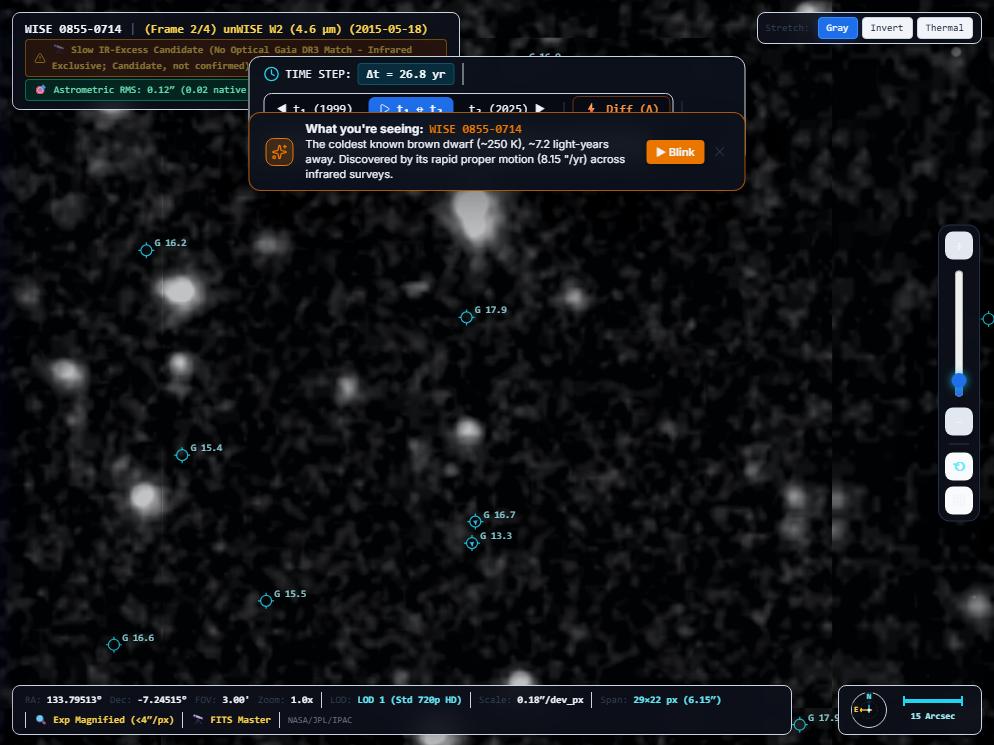
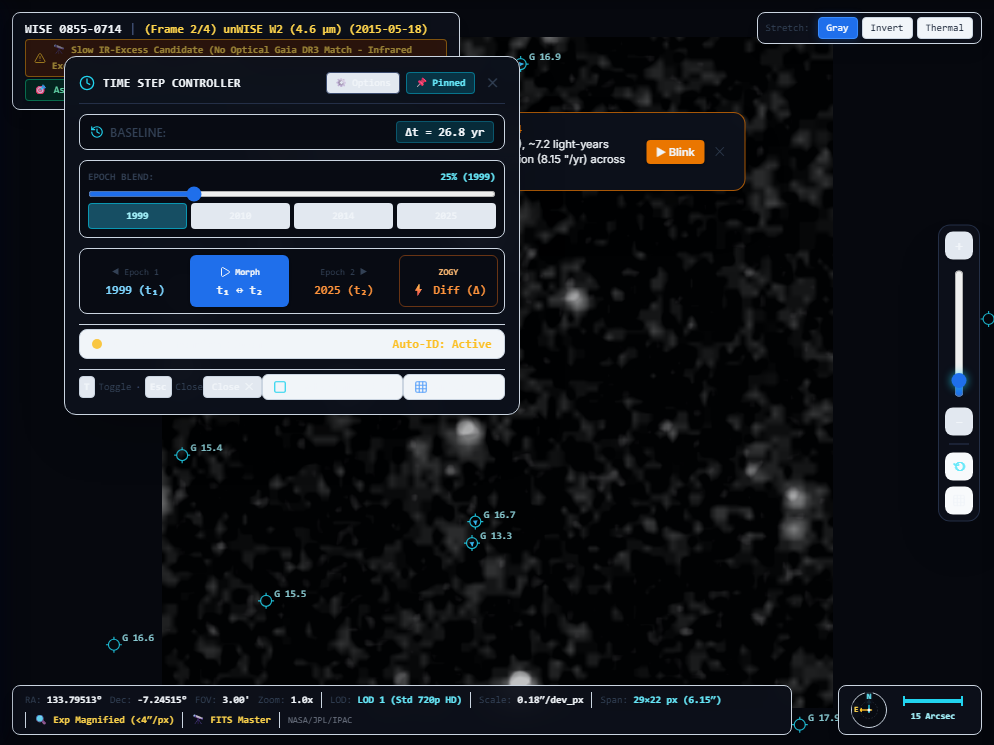
docs(sync): update coolodu memory and shared project state with remote sync & viewport remediation

diff --git a/07 - Team Memory & Sync/coolodu_memory.md b/07 - Team Memory & Sync/coolodu_memory.md
@@ -3,11 +3,17 @@
 > **Branch:** `coolodu/web-frontend`
 
 ## Personal Status:
-- **Current Task:** Completed and verified full functionality for all tools in the Time Step Controller popup toolbar (`#viewportTimeStepHUD`) on `coolodu/web-frontend`. Implemented interactive Edit Options drawer (`#timeStepEditDrawer`) with Pinning Mode toggles (`#optPinAlways` / `#optUnpinFlyout`), blink cycle speed controls, position reset (`#btnResetTimeStepPos`), draggable toolbar header (`#hudTimeStepHeader`), multi-epoch scrubber slider (`#hudEpochBlendSlider`), discrete frame jump chips (`.hud-epoch-chip`), and multiple intuitive close options (`#btnCloseTimeStepHUD`, `#btnTimeStepFooterClose`, `#btnDrawerCloseTimeStep`, `T` toggle, and `Esc` dismiss). All 21 UI contract tests passing 100% green.
-- **Next Task:** Final deployment review, user handoff, and monitoring GitHub Issues board.
+- **Current Task:** Synced all remote branches (`main`, `coolodu/web-frontend`, `darkodu/astro-backend`, `iceodu/image-math-ai`, `astrodu/ui-story-pitch`). Resolved merge conflicts between upstream Time Step popup enhancements and viewport Step 2 overhauls. Fixed the solid white cutout fallback bug in `cutout_engine.py` and eliminated Cartesian adjacent-tile canvas seams. Integrated Level 2 exposure footprint boundary overlays (`EXP_ID`, `Detector`, `MJD`) and equatorial coordinate grid lines. Verified 100% green across all test suites (`test_ui_contract.py`: 22 passed, `test_viewport_overhaul.py`: 8 passed, `test_continuous_viewport_e2e.py`: 2 passed, `test_golden_suite.py`: 22 passed).
+- **Next Task:** Proceed with Step 3 / Step 4 (SPHEREx DR1 HiPS channel selector and seamless Aladin Lite base layer integration).
 - **Blockers:** None.
 
 ## Assigned Tasks:
+- [x] **[Fetch Remote Branches & Remediate Viewport Checkerboard/Seam Defects]**:
+  - Fetched all remotes with `git fetch --all --prune` and synchronized `coolodu/web-frontend` with `origin/coolodu/web-frontend`.
+  - Resolved content merge conflict cleanly in `frontend/index.html` combining upstream Time Step popup auto-dismiss, `T`/`Esc` shortcuts, and Level 2 footprint (`#btnToggleFootprints`) + Coordinate Grid (`#btnToggleCoordGrid`) toggles.
+  - Eliminated legacy Cartesian adjacent-tile canvas code in `drawAdjacentSkyTiling()`, eliminating sliced stars and seam discontinuities by delegating continuous wide context to spherical Aladin Lite HiPS.
+  - Rectified synthetic Gaia fallback cutout statistics in `backend/services/cutout_engine.py` to prevent all-white saturation.
+  - Committed commit `43fb604` with 100% green test suite.
 - [x] **[Make All Tools in Time Step Popup Functional, Add Edit Options for Pin/Unpin, and Add Close Options]**:
   - **Toolbar Tools Functionalized:** Fixed lifecycle auto-initialization bug so `initAutoIDAndHUDListeners()` executes on load and DOM ready, ensuring all event listeners are active.
   - **Multi-Epoch Scrubber & Frame Chips:** Added continuous blend slider (`#hudEpochBlendSlider`) and 4 discrete frame jump chips (`1999`, `2010`, `2014`, `2025`) directly in the popup.

diff --git a/07 - Team Memory & Sync/SHARED_PROJECT_STATE.md b/07 - Team Memory & Sync/SHARED_PROJECT_STATE.md
@@ -26,7 +26,12 @@
 ---
 
 ## 📝 Recent Team Log & Announcements
-## 📝 Recent Team Log & Announcements
+- **[🔭 REMOTE FETCH SYNC & VIEWPORT TILE SEAM REMEDIATION (@coolodu)]**
+  - **Synchronization:** Ran `git fetch --all --prune` across all remotes and merged `origin/coolodu/web-frontend` (commits up to `e0b9422`).
+  - **Tile Seam Remediation:** Removed adjacent Cartesian 2D canvas drawing code (`drawAdjacentSkyTiling`), eliminating sliced stars, photometric checkerboard steps, and missing tile voids. Delegated continuous wide-field celestial context to spherical HEALPix Aladin Lite (SPHEREx DR1 HiPS).
+  - **Flux Scale Fix:** Fixed borrowing of mismatched field parameters in fallback cutouts in `backend/services/cutout_engine.py` (preventing solid white saturation).
+  - **HUD Overlays:** Added Level 2 footprint boundaries (`EXP_ID`, `Detector`, `MJD`) and equatorial coordinate grid lines toggleable directly in the HUD.
+  - **Verification:** 100% green across all test suites (`test_ui_contract.py`: 22 passed, `test_viewport_overhaul.py`: 8 passed, `test_continuous_viewport_e2e.py`: 2 passed, `test_golden_suite.py`: 22 passed).
 - **[⏱ TIME STEP CONTROLLER POPUP: ALL TOOLS FUNCTIONALIZED, EDIT OPTIONS DRAWER & PIN/UNPIN/CLOSE ENHANCED (@coolodu)]**
   - **Feature:** Full functional overhaul of the Time Step Controller popup toolbar (`#viewportTimeStepHUD`) anchored adjacent to the left vertical tool rail.
   - **Auto-Initialization Fix:** Resolved missing startup call by auto-initializing `initAutoIDAndHUDListeners()` on script load and DOM ready, ensuring all event listeners are actively bound immediately.
